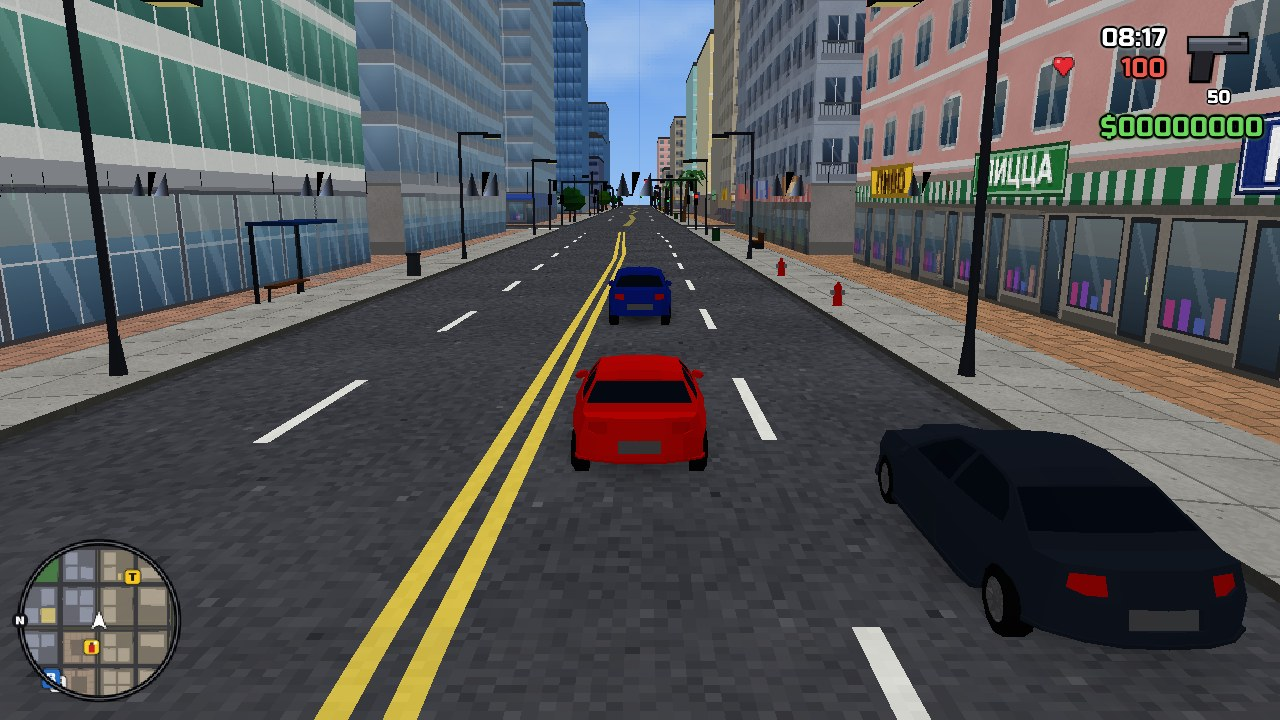
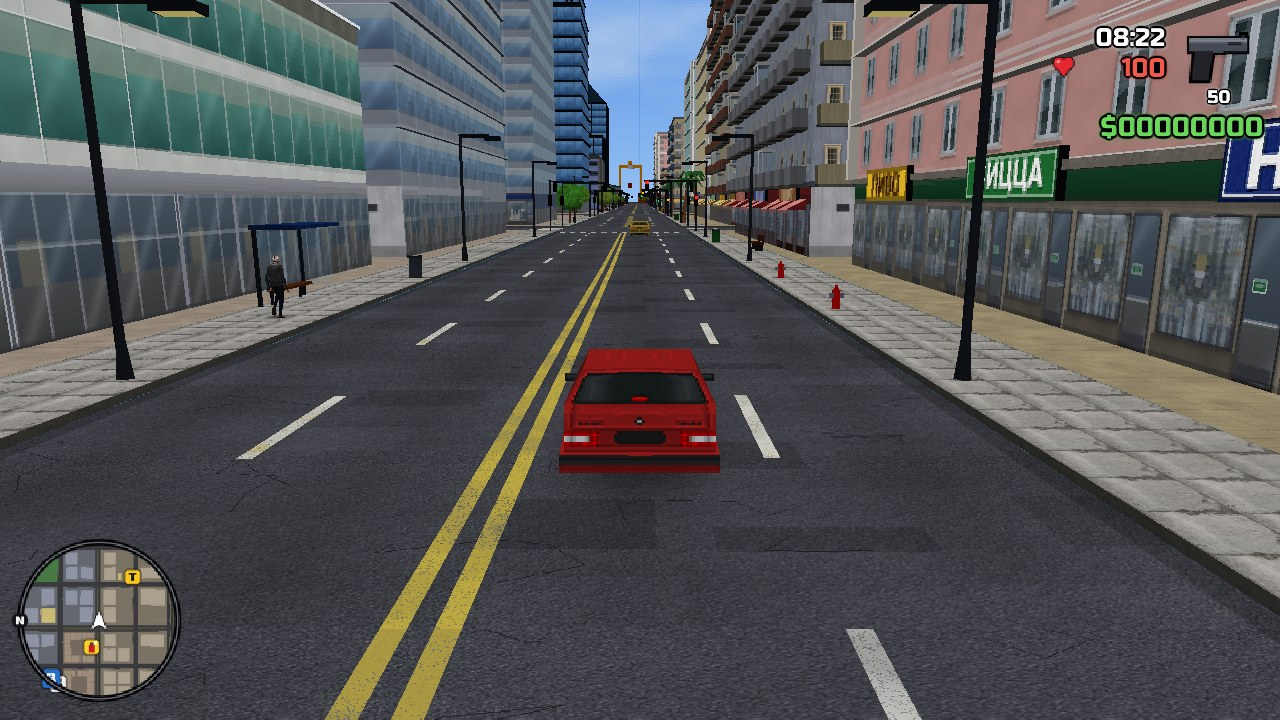
Документация 0.3.0: README, авторы моделей и материалов, новые снимки, скрипт для снимков

diff --git a/tools/make_screenshots.py b/tools/make_screenshots.py
@@ -1,0 +1,144 @@
+# -*- coding: utf-8 -*-
+"""Снимки для README (папка docs/).  Игра запускается без окна, на программном рендере.
+
+    python tools/make_screenshots.py
+
+Нужен pillow.  Настоящая видеокарта рисует чётче: здесь нет сглаживания краёв и анизотропной фильтрации.
+"""
+import os
+import random
+import sys
+import tempfile
+
+ROOT = os.path.dirname(os.path.dirname(os.path.abspath(__file__)))
+sys.path.insert(0, ROOT)
+sys.path.insert(0, os.path.join(ROOT, 'tests'))
+os.environ.setdefault('DD_USER_DIR', tempfile.mkdtemp(prefix='dd_shots_'))     # не трогаем настройки игрока
+
+import harness                                                                  # noqa: E402
+from PIL import Image                                                           # noqa: E402
+from game import missions as M                                                  # noqa: E402
+from game.defs import W_PISTOL, W_FIST, WEAPONS                                 # noqa: E402
+
+DOCS = os.path.join(ROOT, 'docs')
+TMP = tempfile.mkdtemp(prefix='dd_png_')
+
+
+def main():
+    random.seed(7)
+    g = harness.make_game(1280, 720)
+    w = g.world
+    done = []
+
+    def snap(name):
+        png = os.path.join(TMP, name + '.png')
+        harness.shot(g, png)
+        Image.open(png).convert('RGB').save(os.path.join(DOCS, name + '.jpg'), quality=88)
+        done.append(name)
+
+    def nohelp():
+        w.hud.help_t = 0.01
+        w.hud.title_t = 0.01
+        harness.run(g, 0.1)
+
+    def view(x, y, z, tx, ty, tz, hud=False):
+        """Свободная камера (без героя в кадре)."""
+        w.player.teleport(x, y - 30.0)
+        w.cam.override = (x, y, z, tx, ty, tz)
+        harness.run(g, 0.3)
+        w.hud.show(hud)
+        for n in ('big_text', 'title_text', 'zone_text'):
+            getattr(w.hud, n).setText('')
+        harness.run(g, 0.05)
+
+    harness.run(g, 2.0)
+    snap('menu')
+    harness.start_game(g)
+    pl = w.player
+    harness.run(g, 6.0)
+
+    # виды города без героя
+    w.sky.set_time(10.5)
+    w.sky.time_scale = 0.0
+    b = w.city.block_grid[(1, 3)]
+    view(b.x0 - 6, b.y0 - 6, 1.7, b.x0 + 12, b.y0 + 10, 7.5)
+    snap('oldtown')
+    view(-300, -330, 110, 60, -20, 30)
+    snap('skyline')
+    w.sky.set_time(23.5)
+    view(-300, -330, 110, 60, -20, 30)
+    snap('night')
+    w.cam.override = None
+    w.hud.show(True)
+    w.sky.set_time(8.2)
+    w.sky.time_scale = 1.0
+    pl.teleport(*w.city.landmarks['safehouse']['door'])
+    harness.run(g, 1.0)
+
+    # улица: герой со спины, прохожие и машины
+    lane = w.roadnet.lane_index[('h', 2, 2, 'e', 0)]
+    x, y, yaw = lane.pos(22.0)
+    pl.teleport(x, y - 4.3)
+    w.cam.yaw = 0.25
+    w.cam.pitch = -0.1
+    harness.run(g, 3.0, keys=('w',))
+    nohelp()
+    snap('street')
+
+    # прицеливание
+    pl.give_weapon(W_PISTOL, 50)
+    harness.run(g, 0.3)
+    g.inp._dn('mouse3')
+    harness.run(g, 0.8)
+    nohelp()
+    snap('aim')
+    g.inp._up('mouse3')
+    harness.run(g, 0.2)
+
+    # за рулём
+    x, y, yaw = lane.pos(5.0)
+    car = w.spawn_vehicle('sports', x, y, yaw, paint=0)
+    pl.teleport(x, y - 3)
+    pl.enter_vehicle(car, silent=True)
+    w.cam.yaw = yaw
+    harness.run(g, 4.5, keys=('w',))
+    nohelp()
+    snap('drive')
+
+    # ночная погоня
+    w.sky.set_time(22.5)
+    w.police.set_level(3)
+    pl.invincible = True
+    harness.run(g, 9.0, keys=('w',))
+    w.cam.free_t = 0.0
+    w.cam.yaw = car.yaw + 2.6
+    w.cam.pitch = -0.12
+    harness.run(g, 0.2)
+    nohelp()
+    snap('chase')
+    w.police.clear()
+    pl.invincible = False
+
+    # задание (в руках ничего нет)
+    if pl.vehicle is not None:
+        pl.leave_vehicle(force=True)
+        harness.run(g, 1.5)
+    pl.weapon_id = W_FIST
+    pl.weapon = WEAPONS[W_FIST]
+    pl.ped.set_weapon(W_FIST)
+    w.sky.set_time(9.5)
+    x, y = w.city.landmarks['vano']['door']
+    pl.teleport(x, y - 2.0)
+    w.missions.start(M.MISSIONS[0])
+    harness.run(g, 1.2)
+    snap('mission')
+    print('снимки:', ', '.join(done), '->', DOCS)
+    sheet = Image.new('RGB', (1280 * 3, 720 * 3))
+    for i, n in enumerate(done):
+        sheet.paste(Image.open(os.path.join(DOCS, n + '.jpg')), ((i % 3) * 1280, (i // 3) * 720))
+    sheet.resize((1920, 1080), Image.LANCZOS).save(os.path.join(TMP, 'sheet.png'))
+    print('общий лист:', os.path.join(TMP, 'sheet.png'))
+
+
+if __name__ == '__main__':
+    main()

diff --git a/tools/make_release.py b/tools/make_release.py
@@ -44,7 +44,8 @@ README_TXT = u"""DEADLY DISTRICT — «Гиблый район»
     Пробел               ручной тормоз
     Левая кнопка мыши    стрельба из окна (пистолет, «Узи»)
     H                    сигнал или сирена
-    R                    радио
+    R                    радио: следующая станция
+    N                    следующая песня
     B                    взгляд назад
     T                    подработка в такси (сидя в такси)
     F                    выйти из машины
@@ -53,6 +54,16 @@ README_TXT = u"""DEADLY DISTRICT — «Гиблый район»
     C                    дальность камеры
     Esc или P            пауза, карта, статистика, настройки
     F12                  снимок экрана
+
+ЭКРАН
+  Игра открывается во весь экран в разрешении вашего монитора.
+  Окно или полноэкранный режим, разрешение, вид текстур (чёткие или
+  сглаженные) и сглаживание краёв выбираются в меню:
+  Настройки -> Графика и экран.
+
+СВОЯ МУЗЫКА
+  Положите песни (mp3, ogg, wav, flac, m4a) в папку music рядом с игрой.
+  В машине клавишей R выберите станцию «Астрахань FM».
 
 С ЧЕГО НАЧАТЬ
   Буква «В» на радаре — гараж Вано, там дают первое задание.
@@ -64,7 +75,14 @@ README_TXT = u"""DEADLY DISTRICT — «Гиблый район»
   Настройки, сохранения, снимки экрана и журналы лежат в папке
   %LOCALAPPDATA%\\DeadlyDistrict (вставьте путь в адресную строку Проводника).
   Причина сбоя записывается в файлы output.log и crash.log.
-  Чтобы сбросить настройки, удалите там файл settings.json.
+  Чтобы сбросить настройки (в том числе режим экрана), удалите там
+  файл settings.json.
+
+АВТОРЫ МОДЕЛЕЙ И МАТЕРИАЛОВ
+  Люди — Elbolilloduro («Characters PSX»), анимация — Mesh2Motion.
+  Машины — GGBot («PSX Style Cars»). Оружие — Quaternius.
+  Материалы города — Classic64 Asset Library (Craig Snedeker).
+  Подробности: assets/models/CREDITS.md
 
 Исходный код: https://github.com/MatronixOwner/DeadlyDistrict
 """

diff --git a/assets/models/CREDITS.md b/assets/models/CREDITS.md
@@ -1,23 +1,55 @@
-# Модели
+# Модели и материалы
 
-Все модели в этой папке сделаны **Quaternius** (https://quaternius.com) и распространяются по лицензии
-**CC0 1.0** — общественное достояние: их можно свободно использовать, изменять и распространять,
-в том числе в коммерческих проектах, без указания автора. Автора мы всё равно называем — спасибо ему.
+Что в игре сделано не нами, чьё это и на каких условиях взято. Всё остальное — здания, автобус, вывески,
+значки, звуки и музыка — создаётся кодом проекта.
 
-Текст лицензии: https://creativecommons.org/publicdomain/zero/1.0/
+| Что | Автор и набор | Лицензия | Откуда взяты файлы |
+|---|---|---|---|
+| Люди: модели и текстуры (`chars/`) | **Elbolilloduro** — «Characters PSX» | см. примечание | репозиторий `Mesh2Motion/mesh2motion-app` (`static/assets/human/variations`) |
+| Скелет и клипы анимации (`anims/`) | проект **Mesh2Motion** | CC0 | там же (`static/assets/human/animations`) |
+| Машины: 10 моделей (`veh/`) | **GGBot** — «PSX Style Cars» | CC0 | копия набора в репозитории `Raccoon-Formality/Parking_Ticket_Mayhem` |
+| Автобус (`veh/bus`) | код проекта, `tools/gen_bus.py` | — | — |
+| Пистолет, «Узи», дробовик (`weapons/`) | **Quaternius** — Ultimate Gun Pack | CC0 | репозиторий `chibifire-stages/quaternius-stage` |
+| Автомат, гранатомёт, гранаты | **Quaternius** — Toon Shooter Game Kit | CC0 | там же |
+| Бита | **Quaternius** — Zombie Apocalypse Kit | CC0 | там же |
+| Материалы города (`assets/tex`): стены, окна, двери, крыши, асфальт, плитка, трава, листва, кора, металл, дерево | **Craig Snedeker** — Classic64 Asset Library | CC0 | сборник `M3-org/retro3d-assets` (папки `*/Materials`) |
 
-| Что | Набор Quaternius | Откуда взят файл |
-|---|---|---|
-| Персонажи и клипы анимации (`chars/`, `anims/`) | Ultimate Modular Men, Ultimate Modular Women | glTF из репозитория `HamaDler/sami-park-mayhem` |
-| Легковые машины, такси, полиция (`veh/`) | Cars | OpenUSD из репозитория `chibifire-stages/quaternius-stage` |
-| Фургон, скорая, автобус | Public Transport | там же |
-| Пикап, «Бизон», грузовики | Zombie Apocalypse Kit | там же |
-| Пистолет, «Узи», дробовик | Ultimate Gun Pack | там же |
-| Автомат, гранатомёт, гранаты | Toon Shooter Game Kit | там же |
-| Бита | Zombie Apocalypse Kit | там же |
+Страницы авторов:
 
-Файлы `.bam` получены из исходников скриптом `tools/import_models.py`: он сваривает вершины,
-упрощает привязку к скелету (чтобы анимация считалась быстрее), заменяет материалы простыми цветами
-и раскладывает детали по именованным узлам, чтобы игра могла перекрашивать одежду и кузова.
+- Elbolilloduro — <https://elbolilloduro.itch.io/characters-psx>
+- Mesh2Motion — <https://github.com/Mesh2Motion/mesh2motion-app>
+- GGBot (GGBotNet) — <https://ggbot.itch.io/psx-style-cars>
+- Craig Snedeker — <https://craigsnedeker.itch.io/classic64-asset-library>
+- Quaternius — <https://quaternius.com>
 
-Остальная графика игры (город, текстуры, значки), звуки и музыка созданы программным кодом проекта.
+CC0 1.0 — общественное достояние: можно использовать, изменять и распространять без условий
+(<https://creativecommons.org/publicdomain/zero/1.0/>). Авторов мы всё равно называем — спасибо им.
+
+## Примечание о персонажах
+
+В репозитории Mesh2Motion все модели объявлены CC0 (файл `LICENSE-CC0.MD`), а автором этих назван
+Elbolilloduro (`src/lib/RigConfig.ts`).
+На странице самого набора автор формулирует условия иначе: набор бесплатен для любых проектов, в том числе
+коммерческих, указывать авторство не обязательно, но **перевыкладывать набор, даже изменённый, нельзя**.
+
+В игре модели лежат в собранном виде (`.bam`, один общий скелет, упрощённая привязка) как часть игры, а не
+как набор для скачивания. Если вам нужны сами модели — берите их у автора по ссылке выше, а не отсюда.
+Если автор попросит убрать модели из проекта, их нужно будет заменить: таблицы соответствия лежат в
+`game/models.py`, импорт — в `tools/import_psx.py`.
+
+## Примечание о материалах города
+
+В описании сборника `M3-org/retro3d-assets` библиотека Classic64 названа как его часть, а папки с материалами
+(`Bricks/Materials`, `Windows/Materials` и другие) повторяют её устройство; пофайлово мы это не сверяли.
+Сам автор библиотеки отмечает, что часть её файлов переработана из работ других авторов. Надпись судоходной компании с борта морского контейнера мы убрали;
+товары на фотографиях витрин сняты так мелко, что названия на них не читаются.
+
+## Что делает импорт
+
+- `tools/import_psx.py` приводит всех людей к одному скелету (клипы анимации общие для всех) и упрощает
+  привязку к костям. У машин он отделяет колёса и, сравнивая варианты окраски из набора, находит на текстуре
+  окрашенные места кузова — так машину можно перекрашивать. Восемь из 24 обликов людей — перекрашенная
+  одежда исходных моделей.
+- `tools/gen_city.py` собирает из материалов текстуры фасадов и первых этажей: кладёт на стену окна и двери,
+  добавляет потёки и тени, рисует разметку дорог и ночные окна.
+- `tools/import_models.py weapons` переводит оружие в формат игры.
